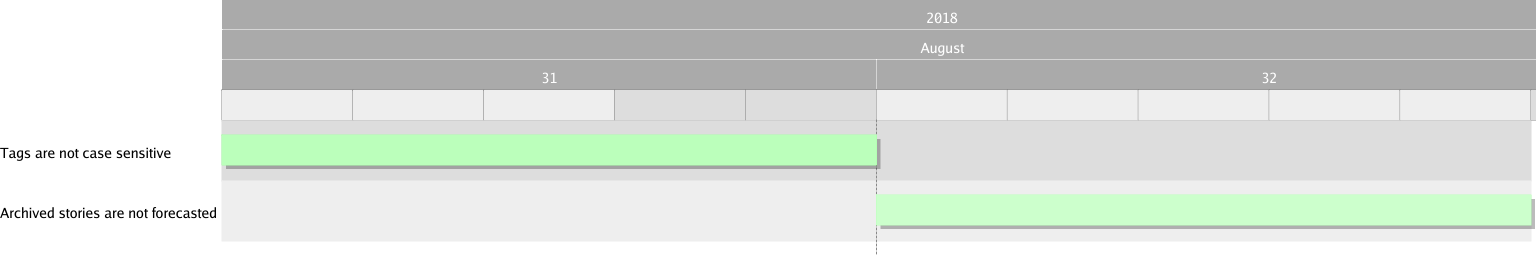
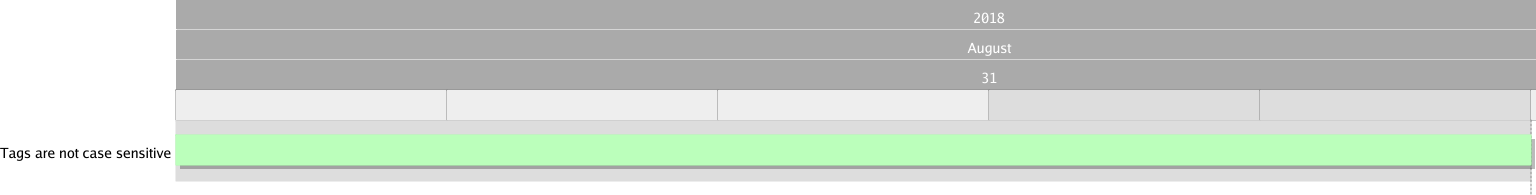
sync

diff --git a/ideas/some-things.md b/ideas/some-things.md
@@ -33,7 +33,6 @@ sent by @falconandy at 2018-08-01 08:49 PM
 
 | User | Project | Title | Status | Points | Tags |
 |---|---|---|---|:---:|---|
-| [falconandy](../users/Andrey%20Sokolov.md) | [Agilemarkdown-project](../agilemarkdown-project.md) | [Archived stories are not forecasted](../agilemarkdown-project/archived-stories-are-not-forecasted.md) | doing | 2 | [clean-things](../tags/clean-things.md) [stuff](../tags/stuff.md) |
 | [Falconandy](../users/Andrey%20Sokolov.md) | [Agilemarkdown-project](../agilemarkdown-project.md) | [Tags are not case sensitive](../agilemarkdown-project/Tags-are-not-case-sensitive.md) | doing | 1 | [clean-things](../tags/clean-things.md) [stuff](../tags/stuff.md) [foo](../tags/foo.md) |
 | [falconandy](../users/Andrey%20Sokolov.md) | [Agilemarkdown-project](../agilemarkdown-project.md) | [Downcase everything on sync](../agilemarkdown-project/downcase-everything-on-sync.md) | planned | 1 | [clean-things](../tags/clean-things.md) |
 | [Falconandy](../users/Andrey%20Sokolov.md) | [Agilemarkdown-project](../agilemarkdown-project.md) | [Change file when story title changes](../agilemarkdown-project/change-file-when-story-title-changes.md) | finished | 3 | [clean-things](../tags/clean-things.md) |
@@ -41,4 +40,4 @@ sent by @falconandy at 2018-08-01 08:49 PM
 | [falconandy](../users/Andrey%20Sokolov.md) | [Agilemarkdown-project](../agilemarkdown-project.md) | [Move some metadata to the bottom](../agilemarkdown-project/Move-some-metadata-to-the-bottom.md) | finished | 3 | [clean-things](../tags/clean-things.md) |
 | [falconandy](../users/Andrey%20Sokolov.md) | [Agilemarkdown-project](../agilemarkdown-project.md) | [Closing pendulum should refresh](../agilemarkdown-project/closing-pendulum-should-refresh.md) | finished | 3 | [clean-things](../tags/clean-things.md) |
 | [falconandy](../users/Andrey%20Sokolov.md) | [Agilemarkdown-project](../agilemarkdown-project.md) | [Kill Home and sidebar pages](../agilemarkdown-project/kill-Home-and-sidebar-pages.md) | finished | 1 | [clean-things](../tags/clean-things.md) |
-| Total Points (doing/planned) | | | | 4 | |
+| Total Points (doing/planned) | | | | 2 | |

diff --git a/agilemarkdown-project.md b/agilemarkdown-project.md
@@ -6,11 +6,10 @@
 | User | Title | Points | Tags |
 |---|---|:---:|---|
 | [Falconandy](users/Andrey%20Sokolov.md) | [Tags are not case sensitive](agilemarkdown-project/Tags-are-not-case-sensitive.md) | 1 | [clean-things](tags/clean-things.md) [stuff](tags/stuff.md) [foo](tags/foo.md) |
-| [falconandy](users/Andrey%20Sokolov.md) | [Archived stories are not forecasted](agilemarkdown-project/archived-stories-are-not-forecasted.md) | 2 | [clean-things](tags/clean-things.md) [stuff](tags/stuff.md) |
 | [falconandy](users/Andrey%20Sokolov.md) | [Users can be created, deleted and changed](agilemarkdown-project/users-can-be-created-deleted-and-changed.md) | 3 | [users](tags/users.md) |
 | [Falconandy](users/Andrey%20Sokolov.md) | [Pivotal import supports user creation](agilemarkdown-project/Pivotal-import-supports-user-creation.md) | 2 | [Pivotal](tags/pivotal.md) |
 | [falconandy](users/Andrey%20Sokolov.md) | [Pivotal import should add proper placeholders](agilemarkdown-project/pivotal-import-should-add-proper-placeholders.md) | 1 | [pivotal](tags/pivotal.md) |
-| Total Points | | 9 | |
+| Total Points | | 7 | |
 
 ### Planned
 | User | Title | Points | Tags |

diff --git a/users/Andrey Sokolov.md b/users/Andrey Sokolov.md
@@ -10,11 +10,10 @@ Email: falconandy@yandex.ru, falconandy1980@gmail.com
 | Title | Points | Tags |
 |---|:---:|---|
 | [Tags are not case sensitive](../agilemarkdown-project/Tags-are-not-case-sensitive.md) | 1 | [clean-things](../tags/clean-things.md) [stuff](../tags/stuff.md) [foo](../tags/foo.md) |
-| [Archived stories are not forecasted](../agilemarkdown-project/archived-stories-are-not-forecasted.md) | 2 | [clean-things](../tags/clean-things.md) [stuff](../tags/stuff.md) |
 | [Users can be created, deleted and changed](../agilemarkdown-project/users-can-be-created-deleted-and-changed.md) | 3 | [users](../tags/users.md) |
 | [Pivotal import supports user creation](../agilemarkdown-project/Pivotal-import-supports-user-creation.md) | 2 | [Pivotal](../tags/pivotal.md) |
 | [Pivotal import should add proper placeholders](../agilemarkdown-project/pivotal-import-should-add-proper-placeholders.md) | 1 | [pivotal](../tags/pivotal.md) |
-| Total Points | 9 | |
+| Total Points | 7 | |
 
 ### Planned
 | Title | Points | Tags |

diff --git a/agilemarkdown-project/archive/archived-stories-are-not-forecasted.md b/agilemarkdown-project/archive/archived-stories-are-not-forecasted.md
@@ -1,0 +1,35 @@
+# Archived stories are not forecasted
+
+Project: Agilemarkdown-project
+
+[home](../../index.md) • [idea list](../../ideas.md) • [tag list](../../tags.md) • [velocity](../../velocity.md) • [timeline](../../timeline.md) • [users](../../users.md) • [project page](../../agilemarkdown-project.md) • [archive](../archive.md)
+
+Tags: clean-things, stuff  
+Status: doing  
+Assigned: falconandy  
+Estimate: 2  
+Archive: true  
+Timeline: 2018-08-06 2018-08-10  
+  
+
+## Problem statement
+
+When we archive things we should not be forecasting them on a timeline.
+
+## Possible solution
+
+Make sure that anything archived does not appear on a timeline. We could strip the dates, or just not include them. Or both.
+
+## Comments
+
+@falconandy this one too.
+sent by @mreider at 2018-07-05 04:10 PM
+
+## Attachments
+
+
+## Metadata
+
+Created: 2018-07-05 04:09 PM  
+Modified: 2018-07-15 12:21 PM  
+Author: Matt Reider  

diff --git a/tags/clean-things.md b/tags/clean-things.md
@@ -5,9 +5,8 @@
 ## Doing
 | User | Project | Title | Points | Tags |
 |---|---|---|:---:|---|
-| [falconandy](../users/Andrey%20Sokolov.md) | [Agilemarkdown-project](../agilemarkdown-project.md) | [Archived stories are not forecasted](../agilemarkdown-project/archived-stories-are-not-forecasted.md) | 2 | [clean-things](clean-things.md) [stuff](stuff.md) |
 | [Falconandy](../users/Andrey%20Sokolov.md) | [Agilemarkdown-project](../agilemarkdown-project.md) | [Tags are not case sensitive](../agilemarkdown-project/Tags-are-not-case-sensitive.md) | 1 | [clean-things](clean-things.md) [stuff](stuff.md) [foo](foo.md) |
-| Total Points | | | 3 | |
+| Total Points | | | 1 | |
 
 ## Planned
 | User | Project | Title | Points | Tags |

diff --git a/tags/stuff.md b/tags/stuff.md
@@ -5,6 +5,5 @@
 ## Doing
 | User | Project | Title | Points | Tags |
 |---|---|---|:---:|---|
-| [falconandy](../users/Andrey%20Sokolov.md) | [Agilemarkdown-project](../agilemarkdown-project.md) | [Archived stories are not forecasted](../agilemarkdown-project/archived-stories-are-not-forecasted.md) | 2 | [clean-things](clean-things.md) [stuff](stuff.md) |
 | [Falconandy](../users/Andrey%20Sokolov.md) | [Agilemarkdown-project](../agilemarkdown-project.md) | [Tags are not case sensitive](../agilemarkdown-project/Tags-are-not-case-sensitive.md) | 1 | [clean-things](clean-things.md) [stuff](stuff.md) [foo](foo.md) |
-| Total Points | | | 3 | |
+| Total Points | | | 1 | |

diff --git a/agilemarkdown-project/archive.md b/agilemarkdown-project/archive.md
@@ -2,6 +2,12 @@
 
 [home](../index.md) • [idea list](../ideas.md) • [tag list](../tags.md) • [velocity](../velocity.md) • [timeline](../timeline.md) • [users](../users.md) • [project page](../agilemarkdown-project.md)
 
+### Doing
+| User | Title | Points | Tags |
+|---|---|:---:|---|
+| [falconandy](../users/Andrey%20Sokolov.md) | [Archived stories are not forecasted](archive/archived-stories-are-not-forecasted.md) | 2 | [clean-things](tags/clean-things.md) [stuff](tags/stuff.md) |
+| Total Points | | 2 | |
+
 ### Finished
 | User | Title | Points | Tags |
 |---|---|:---:|---|
